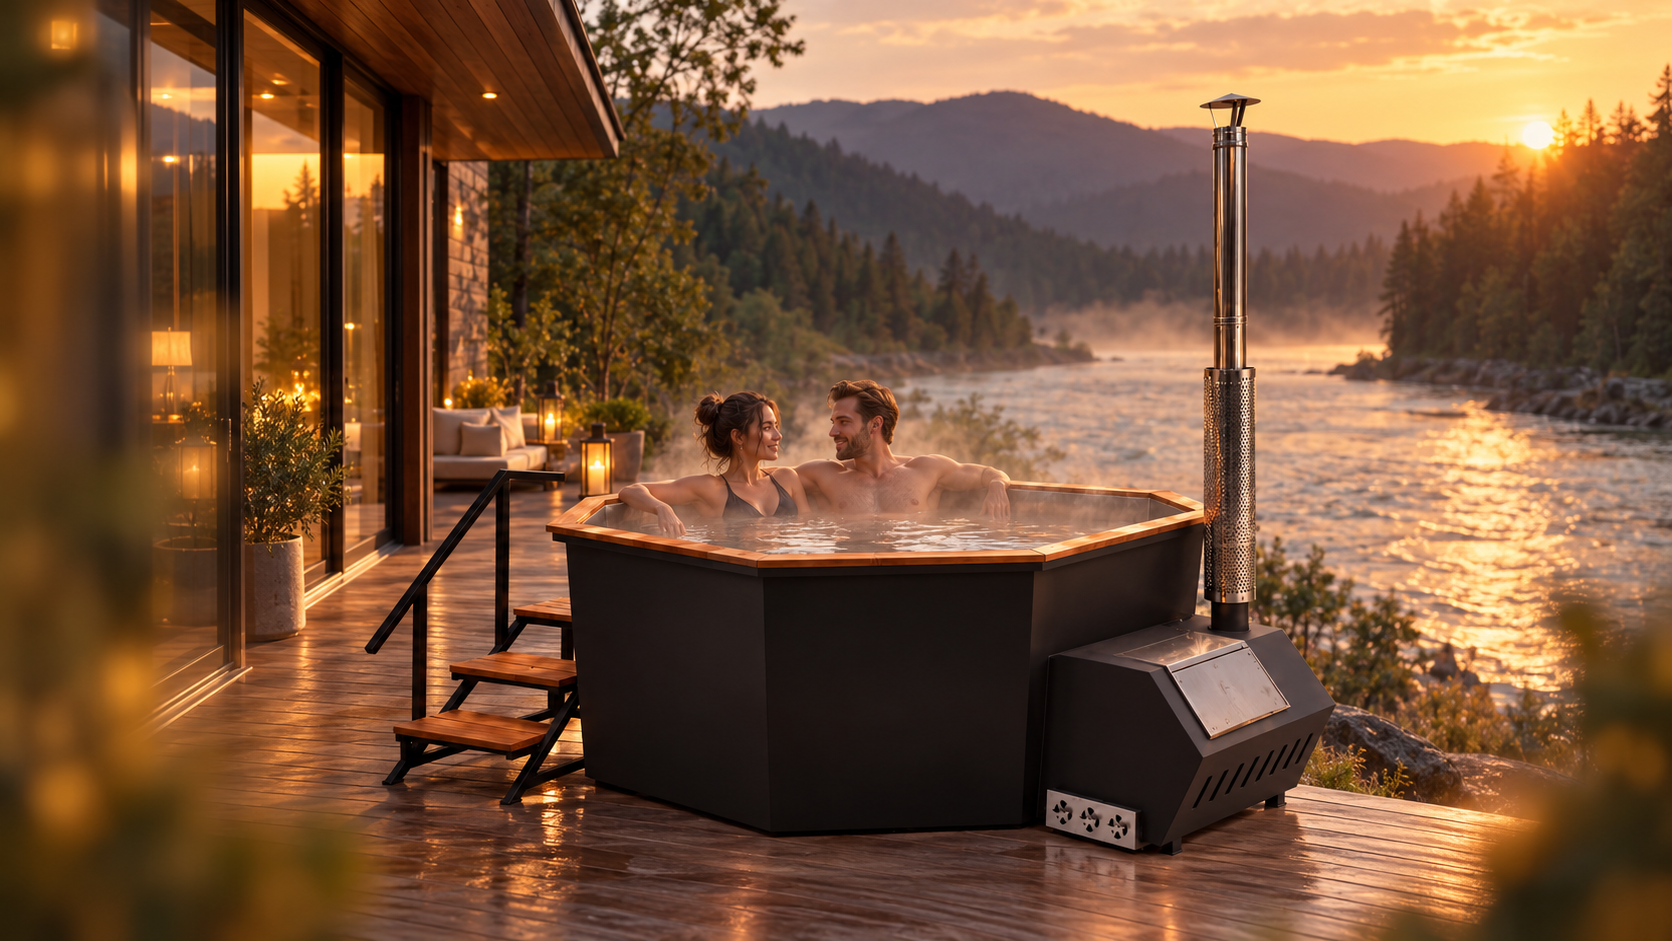
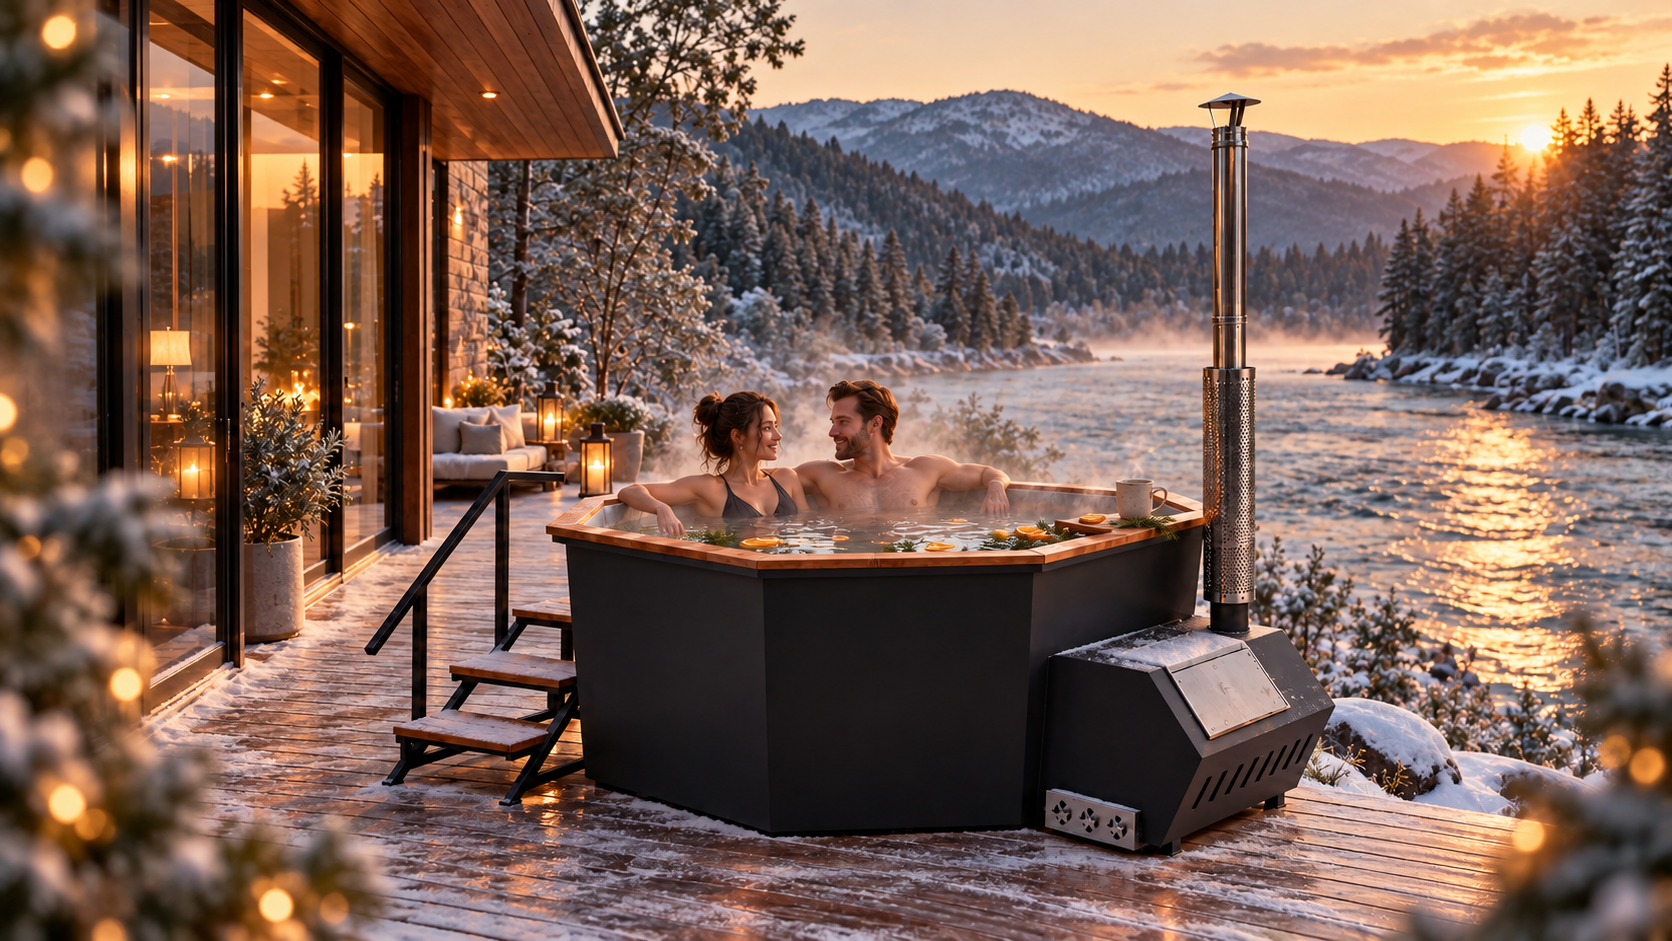
Новая главная, кадр с озером, печь крупнее, отпечатки у фото
Главная: вместо вечернего кадра — зимняя терраса с паром над водой.

Блок «Чан — это про отдых»: в круглой врезке теперь кадр с озером
вместо долек апельсина; печь с дровами показана крупнее и целиком;
заголовок нержавейки больше не прижат к полосе.

Фото. Хостинг держит картинки в кэше год, а заменённый под тем же
именем файл браузер не перекачивает — посетитель видел бы старый кадр.
Теперь сборка вычисляет отпечаток каждого снимка и ставит его в адрес
(?v=…): файл не менялся — берётся из кэша, изменился — скачивается заново.

Claude-Session: https://claude.ai/code/session_01TguMyRvyZftt8ueoPbGrxp

diff --git a/vite.config.ts b/vite.config.ts
@@ -1,4 +1,6 @@
 import { copyFile, writeFile } from 'node:fs/promises'
+import { createHash } from 'node:crypto'
+import { readdirSync, readFileSync } from 'node:fs'
 import { resolve } from 'node:path'
 import { defineConfig, type Plugin } from 'vite'
 import react from '@vitejs/plugin-react'
@@ -60,6 +62,28 @@ function staticHostAssets(origin: string): Plugin {
   }
 }
 
+/**
+ * Снимки лежат в `public/photos` и сохраняют свои имена — в отличие от скриптов
+ * и стилей, которым сборка подмешивает хэш. Хостинг же отдаёт картинки с
+ * годовым сроком хранения, поэтому заменённый под тем же именем кадр у
+ * вернувшегося посетителя так и остался бы старым. Отпечаток содержимого
+ * попадает в адрес: пока файл не менялся, адрес прежний и кадр берётся из
+ * кэша; изменился — адрес новый и браузер скачивает заново.
+ */
+function photoFingerprints(): Record<string, string> {
+  const dir = resolve(__dirname, 'public/photos')
+  const fingerprints: Record<string, string> = {}
+
+  for (const file of readdirSync(dir)) {
+    fingerprints[file] = createHash('sha1')
+      .update(readFileSync(resolve(dir, file)))
+      .digest('hex')
+      .slice(0, 8)
+  }
+
+  return fingerprints
+}
+
 export default defineConfig(({ mode }) => {
   const base = process.env.VITE_BASE_PATH ?? '/'
   const origin = process.env.VITE_SITE_ORIGIN ?? PRODUCTION_ORIGIN
@@ -67,7 +91,10 @@ export default defineConfig(({ mode }) => {
   return {
     base,
     // Passed through to the client so canonicals match where the build lives.
-    define: { 'import.meta.env.VITE_SITE_ORIGIN': JSON.stringify(origin) },
+    define: {
+      'import.meta.env.VITE_SITE_ORIGIN': JSON.stringify(origin),
+      __PHOTO_FINGERPRINTS__: JSON.stringify(photoFingerprints()),
+    },
     plugins: [react(), tailwindcss(), staticHostAssets(origin)],
     build: { target: 'es2022', sourcemap: mode !== 'production' },
   }

diff --git a/src/components/sections/Ritual.tsx b/src/components/sections/Ritual.tsx
@@ -23,8 +23,8 @@ export function Ritual() {
           <Reveal>
             <Cell className="flex items-center gap-5 pr-6">
               <img
-                src={photoUrl('ritual-ambience.webp')}
-                alt="Пар над водой чана, дольки апельсина и еловые ветки"
+                src={photoUrl('ritual-water.webp')}
+                alt="Горячая вода в чане зимой, над озером поднимается пар"
                 loading="lazy"
                 className="-ml-8 size-40 shrink-0 rounded-full object-cover"
               />
@@ -96,7 +96,7 @@ export function Ritual() {
 
           <Reveal delay={210} className="sm:col-span-2 lg:col-span-3">
             <Cell height="h-auto" className="flex flex-col">
-              <p className="px-7 pt-7 text-center text-lg leading-snug text-ink-700">
+              <p className="px-7 pt-7 pb-6 text-center text-lg leading-snug text-ink-700">
                 Нержавейка, которой не нужен особый уход
               </p>
               {/* Фактура — материал, а не сюжет: полосой во всю ширину она
@@ -105,7 +105,7 @@ export function Ritual() {
                 src={photoUrl('ritual-steel.webp')}
                 alt="Фактура шлифованной нержавеющей стали"
                 loading="lazy"
-                className="mt-auto h-24 w-full rounded-card object-cover"
+                className="mt-auto h-32 w-full rounded-card object-cover"
               />
             </Cell>
           </Reveal>

diff --git a/src/lib/photos.ts b/src/lib/photos.ts
@@ -1,6 +1,13 @@
 /**
  * Real photography lives in `public/photos`. The site is served from a
  * sub-path on Pages, so a stored name is turned into a URL here rather than
- * hard-coded with a leading slash anywhere.
+ * hard-coded with a leading slash anywhere. The build stamps each file's
+ * fingerprint onto its URL, so replacing a photo under the same name reaches
+ * visitors whose browser still holds the previous one.
  */
-export const photoUrl = (name: string) => `${import.meta.env.BASE_URL}photos/${name}`
+export const photoUrl = (name: string) => {
+  const fingerprint = __PHOTO_FINGERPRINTS__[name]
+  const url = `${import.meta.env.BASE_URL}photos/${name}`
+
+  return fingerprint ? `${url}?v=${fingerprint}` : url
+}

diff --git a/src/vite-env.d.ts b/src/vite-env.d.ts
@@ -9,3 +9,6 @@ interface ImportMetaEnv {
 interface ImportMeta {
   readonly env: ImportMetaEnv
 }
+
+/** Отпечатки файлов из `public/photos`, подставляются при сборке. */
+declare const __PHOTO_FINGERPRINTS__: Record<string, string>
